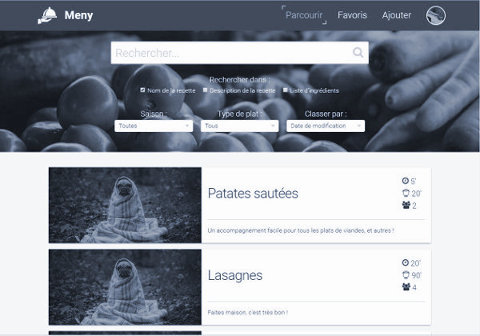
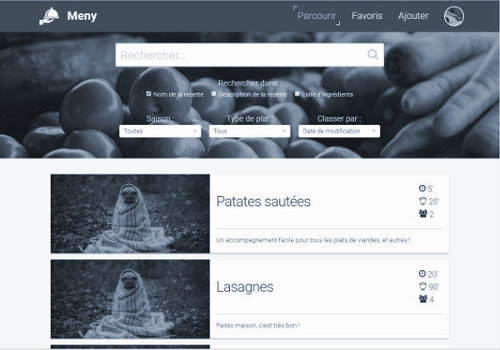
Update css for small devices / tone down the blue accent in images
Added min height of 100vh for small devices as it seemed better this way

diff --git a/src/styles/main.scss b/src/styles/main.scss
@@ -56,6 +56,7 @@ a {
   justify-content: center;
   align-items: center;
   border-bottom: 1px solid $dark;
+  min-height: 100vh;
 }
 
 .sb-intro {
@@ -182,7 +183,7 @@ h4 {
 }
 
 .project {
-  width: 26rem;
+  width: 24rem;
   margin: 1rem 0;
   height: 26rem;
   display: flex;
@@ -249,6 +250,7 @@ strong {
 
   .project {
     margin: 2rem 2rem;
+    width: 26rem;
   }
 
   .sb-intro {
@@ -300,9 +302,5 @@ strong {
         transition-delay: .2s + $i * .05s;
       }
     }
-  }
-
-  .sb-section, .sb-intro {
-    min-height: 100vh;
   }
 }
